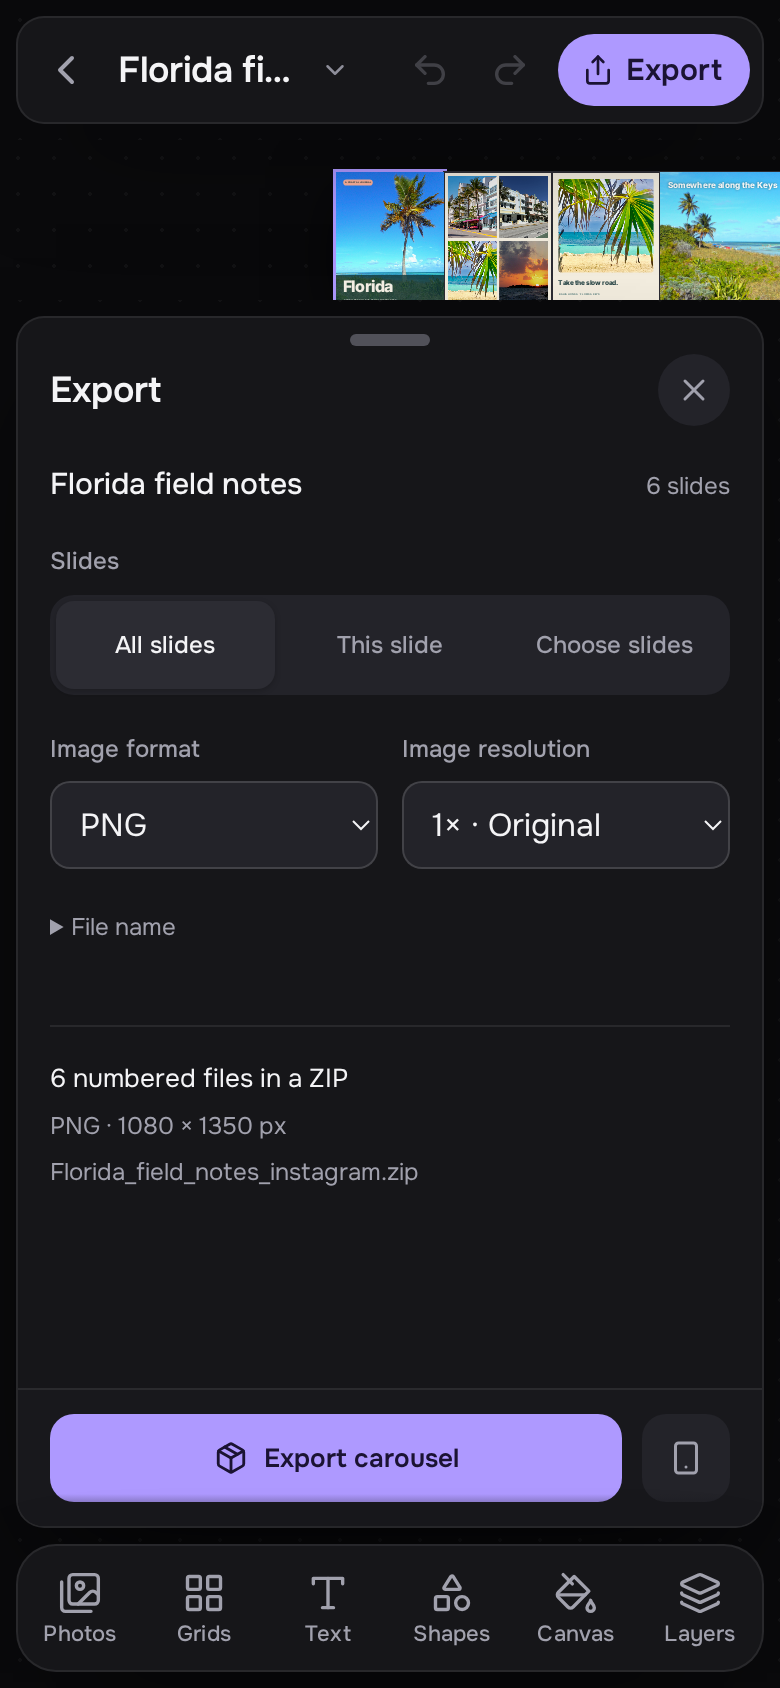
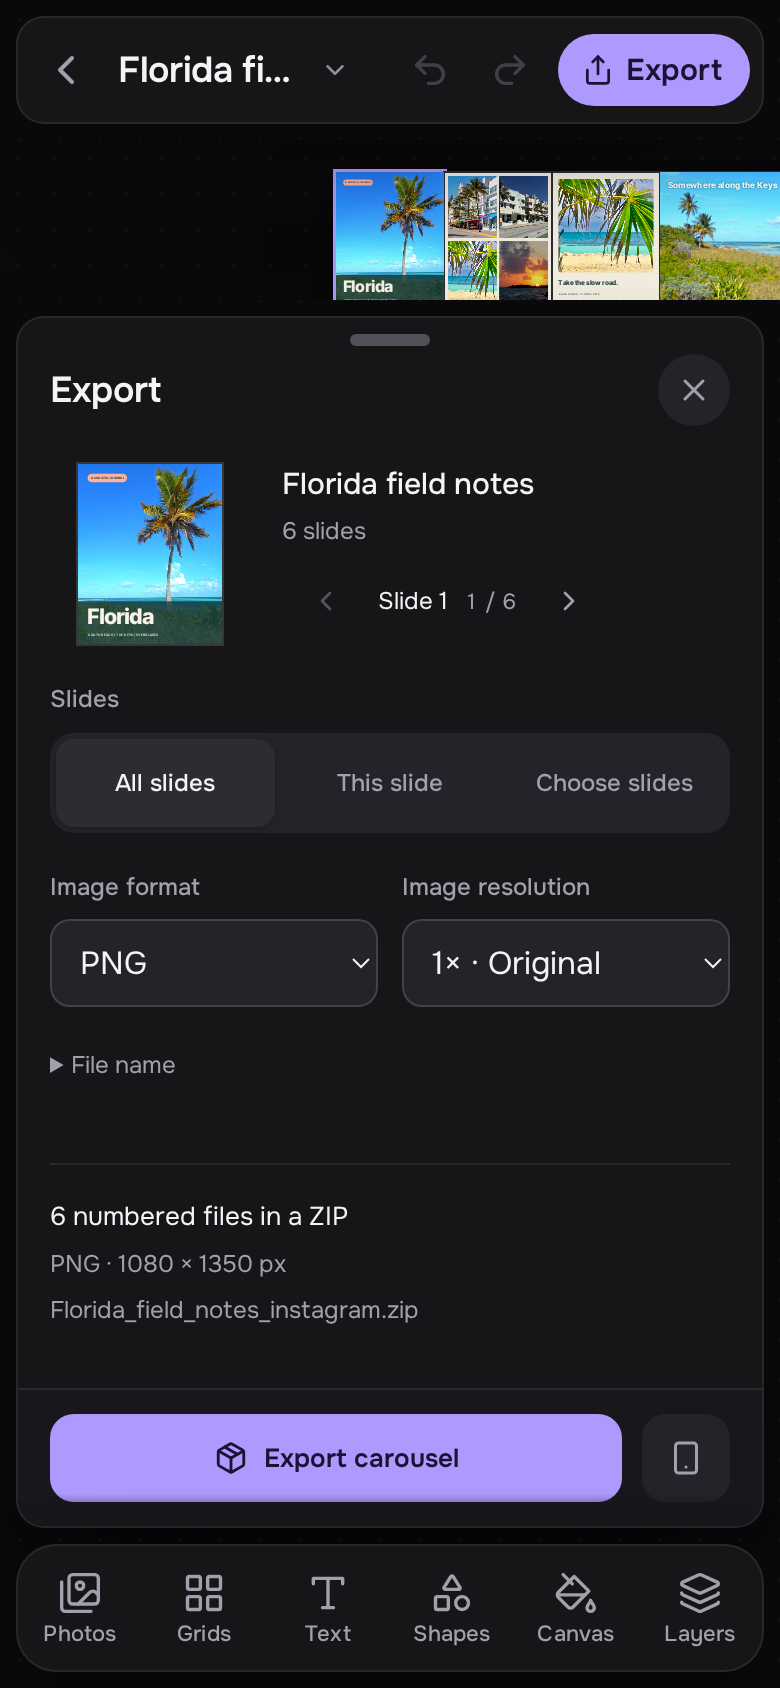
Show a small slide preview in web export settings
Browse the included slides without changing the editor selection. Share
one bounded preview canvas between desktop and phone, show original slide
numbers, and follow the current or chosen export scope.

Reuse the existing scene painter, including transparency and poster
frames. Refresh the menu screenshots and verify actual preview pixels,
selection preservation, downloads, narrow layouts and offline export.

diff --git a/e2e/export.spec.ts b/e2e/export.spec.ts
@@ -176,3 +176,55 @@ for (const viewport of [{ width: 320, height: 568 }, { width: 844, height: 390 }
     });
   });
 }
+
+for (const mobile of [false, true]) {
+  test.describe(`${mobile ? 'phone' : 'desktop'} export preview`, () => {
+    test.use(mobile ? { viewport: { width: 390, height: 844 }, isMobile: true, hasTouch: true } : { viewport: { width: 1280, height: 800 } });
+    test('renders selected slides and browses without changing the editor or document', async ({ page }) => {
+      await create(page, mobile);
+      const original = await page.evaluate(async () => {
+        const path = '/src/editor/documentStore.ts';
+        const { useDocumentStore } = await import(path) as typeof import('../src/editor/documentStore');
+        const store = () => useDocumentStore.getState();
+        store().setBackground({ kind: 'solid', color: '#ff0000' });
+        store().addSlide();
+        store().setBackground({ kind: 'solid', color: '#0000ff' });
+        store().addSlide();
+        store().setBackground({ kind: 'solid', color: '#00ff00' });
+        store().selectSlide(store().doc.slideOrder[1]);
+        return { doc: JSON.stringify(store().doc), selected: store().selectedSlideId };
+      });
+      if (mobile) await page.getByRole('button', { name: 'Export', exact: true }).tap();
+      else await open(page);
+      const surface = mobile ? page.getByRole('region', { name: 'Export', exact: true }) : page.getByRole('dialog', { name: 'Export', exact: true });
+      const preview = surface.locator('.export-slide-artwork canvas');
+      const pixel = () => preview.evaluate((element) => {
+        const canvas = element as HTMLCanvasElement;
+        return [...canvas.getContext('2d')!.getImageData(Math.floor(canvas.width / 2), Math.floor(canvas.height / 2), 1, 1).data];
+      });
+      await expect(surface.getByRole('img', { name: 'Slide 2 preview' })).toBeVisible();
+      await expect.poll(pixel).toEqual([0, 0, 255, 255]);
+      await surface.getByRole('button', { name: 'Next slide preview' }).click();
+      await expect(surface.getByRole('img', { name: 'Slide 3 preview' })).toBeVisible();
+      await expect.poll(pixel).toEqual([0, 255, 0, 255]);
+      await expect(surface.getByRole('button', { name: 'Next slide preview' })).toBeDisabled();
+      await surface.getByText('Choose slides', { exact: true }).click();
+      await surface.getByRole('button', { name: 'Clear', exact: true }).click();
+      await expect(preview).toHaveCount(0);
+      await surface.getByLabel('Slide 1', { exact: true }).check();
+      await surface.getByLabel('Slide 3', { exact: true }).check();
+      await surface.getByRole('button', { name: 'Previous slide preview' }).click();
+      await expect.poll(pixel).toEqual([255, 0, 0, 255]);
+      await surface.getByText('This slide', { exact: true }).click();
+      await expect(surface.getByRole('img', { name: 'Slide 2 preview' })).toBeVisible();
+      await expect.poll(pixel).toEqual([0, 0, 255, 255]);
+      await expect(surface.getByRole('button', { name: 'Next slide preview' })).toHaveCount(0);
+      const after = await page.evaluate(async () => {
+        const path = '/src/editor/documentStore.ts';
+        const { useDocumentStore } = await import(path) as typeof import('../src/editor/documentStore');
+        return { doc: JSON.stringify(useDocumentStore.getState().doc), selected: useDocumentStore.getState().selectedSlideId };
+      });
+      expect(after).toEqual(original);
+    });
+  });
+}

diff --git a/src/components/export/ExportSlidePreview.tsx b/src/components/export/ExportSlidePreview.tsx
@@ -1,0 +1,36 @@
+import { useMemo, useState } from 'react';
+import { ChevronLeft, ChevronRight } from 'lucide-react';
+import type { ProjectDocumentV2 } from '@/types';
+import { slideScene } from '@/render/preview';
+import { SlidePreviewCanvas } from '@/components/SlidePreviewCanvas';
+
+/** A single small canvas, even when exporting a long carousel. */
+export function ExportSlidePreview({ doc, indexes, current, format }: {
+  doc: ProjectDocumentV2;
+  indexes: number[];
+  current: string;
+  format: 'png' | 'jpeg';
+}) {
+  const [preferred, setPreferred] = useState(current);
+  const ids = indexes.map((index) => doc.slideOrder[index]);
+  const slideId = ids.includes(preferred) ? preferred : ids.includes(current) ? current : ids[0];
+  const position = ids.indexOf(slideId);
+  const scene = useMemo(() => slideId ? slideScene(doc, slideId) : null, [doc, slideId]);
+  const scale = Math.min(90 / doc.format.width, 90 / doc.format.height);
+  const number = doc.slideOrder.indexOf(slideId) + 1;
+
+  return <div className="export-slide-preview">
+    <div className="export-slide-artwork" role="img" aria-label={scene ? `Slide ${number} preview` : 'No slides selected'}>
+      {scene && <SlidePreviewCanvas key={slideId} scene={scene} format={doc.format} width={doc.format.width * scale} height={doc.format.height * scale} checkerboard={format === 'png'} />}
+    </div>
+    <div className="export-slide-info">
+      <p className="export-project">{doc.name || 'Untitled'}</p>
+      <span>{doc.slideOrder.length} {doc.slideOrder.length === 1 ? 'slide' : 'slides'}</span>
+      {scene && <div className="export-preview-navigation">
+        {indexes.length > 1 && <button type="button" aria-label="Previous slide preview" disabled={position === 0} onClick={() => setPreferred(ids[position - 1])}><ChevronLeft size={16} aria-hidden /></button>}
+        <span aria-live="polite">Slide {number}{indexes.length > 1 && <span className="export-preview-count">{position + 1} / {indexes.length}</span>}</span>
+        {indexes.length > 1 && <button type="button" aria-label="Next slide preview" disabled={position === indexes.length - 1} onClick={() => setPreferred(ids[position + 1])}><ChevronRight size={16} aria-hidden /></button>}
+      </div>}
+    </div>
+  </div>;
+}

diff --git a/src/components/export/export.css b/src/components/export/export.css
@@ -58,3 +58,15 @@
 @media (prefers-reduced-motion: reduce) { .export-progress [data-indeterminate='true'] { animation: none; } }
 
 .mobile-sheet .export-pick-actions button, .mobile-sheet .export-slide-choices label, .mobile-sheet .export-naming summary { min-height: 44px; }
+
+.export-slide-preview { display: flex; align-items: center; gap: 16px; min-height: 90px; }
+.export-slide-artwork { flex: 0 0 100px; display: flex; align-items: center; justify-content: center; min-height: 90px; }
+.export-slide-artwork canvas { background: #fff; box-shadow: 0 0 0 1px rgb(var(--c-line-strong) / var(--c-line-strong-alpha)); }
+.export-slide-info { flex: 1; min-width: 0; }
+.export-slide-info > span { display: block; margin-top: 3px; font-size: 12px; color: rgb(var(--c-ink-dim)); }
+.export-preview-navigation { display: flex; align-items: center; gap: 4px; margin-top: 4px; }
+.export-preview-navigation > span { display: flex; flex-wrap: wrap; gap: 8px; align-items: baseline; font-size: 12px; }
+.export-preview-count { font-size: 11px; color: rgb(var(--c-ink-dim)); font-variant-numeric: tabular-nums; }
+.export-preview-navigation button { display: flex; align-items: center; justify-content: center; width: 44px; height: 44px; flex-shrink: 0; border-radius: 9px; color: rgb(var(--c-ink-dim)); }
+.export-preview-navigation button:hover:not(:disabled) { background: rgb(var(--c-bg-inset)); color: rgb(var(--c-ink)); }
+@media (max-width: 380px) { .export-slide-artwork { flex-basis: 90px; } .export-slide-preview { gap: 10px; } }

diff --git a/src/components/export/ExportPanel.tsx b/src/components/export/ExportPanel.tsx
@@ -5,6 +5,7 @@ import { useEditorSession } from '@/editor/sessionStore';
 import { useEditorView } from '@/editor/viewStore';
 import { useExport } from '@/editor/exportStore';
 import { inspectSlideVideo } from '@/export/video';
+import { ExportSlidePreview } from './ExportSlidePreview';
 import './export.css';
 
 type Scope = 'all' | 'current' | 'chosen';
@@ -69,7 +70,7 @@ export function ExportPanel({ onDone }: { onDone: () => void }) {
 
   return <form className="export-panel" onSubmit={(event) => void submit(event)}>
     <div className="export-fields scrollbar-thin">
-      <p className="export-project">{doc.name || 'Untitled'} <span>{doc.slideOrder.length} {doc.slideOrder.length === 1 ? 'slide' : 'slides'}</span></p>
+      <ExportSlidePreview doc={doc} indexes={indexes} current={current} format={settings.format} />
       <fieldset disabled={state.exporting} className="export-scope">
         <legend>Slides</legend>
         <div className="export-segments">

diff --git a/src/components/mobile/MobileExportPanel.test.tsx b/src/components/mobile/MobileExportPanel.test.tsx
@@ -8,6 +8,8 @@ import { inspectSlideVideo } from '@/export/video';
 import { MobileExportPanel } from './MobileExportPanel';
 
 vi.mock('@/lib/export', () => ({ exportInstagramCarousel: vi.fn(), exportSlide: vi.fn() }));
+// Actual canvas pixels and preview navigation are covered in e2e/export.spec.ts.
+vi.mock('@/components/SlidePreviewCanvas', () => ({ SlidePreviewCanvas: () => null }));
 vi.mock('@/export/video', () => ({ inspectSlideVideo: vi.fn() }));
 const exportCarousel = vi.fn(async () => undefined);
 const exportCurrentSlide = vi.fn(async () => undefined);

diff --git a/docs/mobile.md b/docs/mobile.md
@@ -92,6 +92,7 @@ The **Layers** sheet lists the current slide's layers, top layer first. Tap a ro
 **Export** in the top bar opens the full-height export sheet. It has the same
 [export settings](./web-export.md) as desktop. Everything is rendered on the device.
 
+- A small slide preview above the settings follows the export selection; use its arrows to browse the included slides.
 - **All slides** downloads a ZIP; **This slide** saves one file; **Choose slides** downloads a ZIP of the checked slides, keeping their original numbers.
 - Choose **PNG** or **JPEG**, **1×** or **2×** image resolution, and JPEG quality. Animated slides can stay MP4 or become still frames; MP4 keeps the original canvas size.
 - Expand **File name** to change the download name. The summary shows the output size and name before export.

diff --git a/docs/web-export.md b/docs/web-export.md
@@ -22,6 +22,11 @@ share the same settings. All rendering and packaging happen on your device.
   `<name>_instagram.zip`; individual files use `<name>_01.png`, `.jpg`, or
   `.mp4`. Spaces and punctuation become underscores.
 
+A small slide preview appears above the settings. Use its arrows to browse
+the slides included in the export, without changing the editor selection.
+PNG previews show transparency as a checkerboard; JPEG previews use white.
+Animations show a still preview.
+
 The summary shows file count, dimensions, and the download name. Image
 format, quality, resolution, and animation preferences last for the current
 app session. The timeline's **Slide PNG** button remains a quick PNG export
